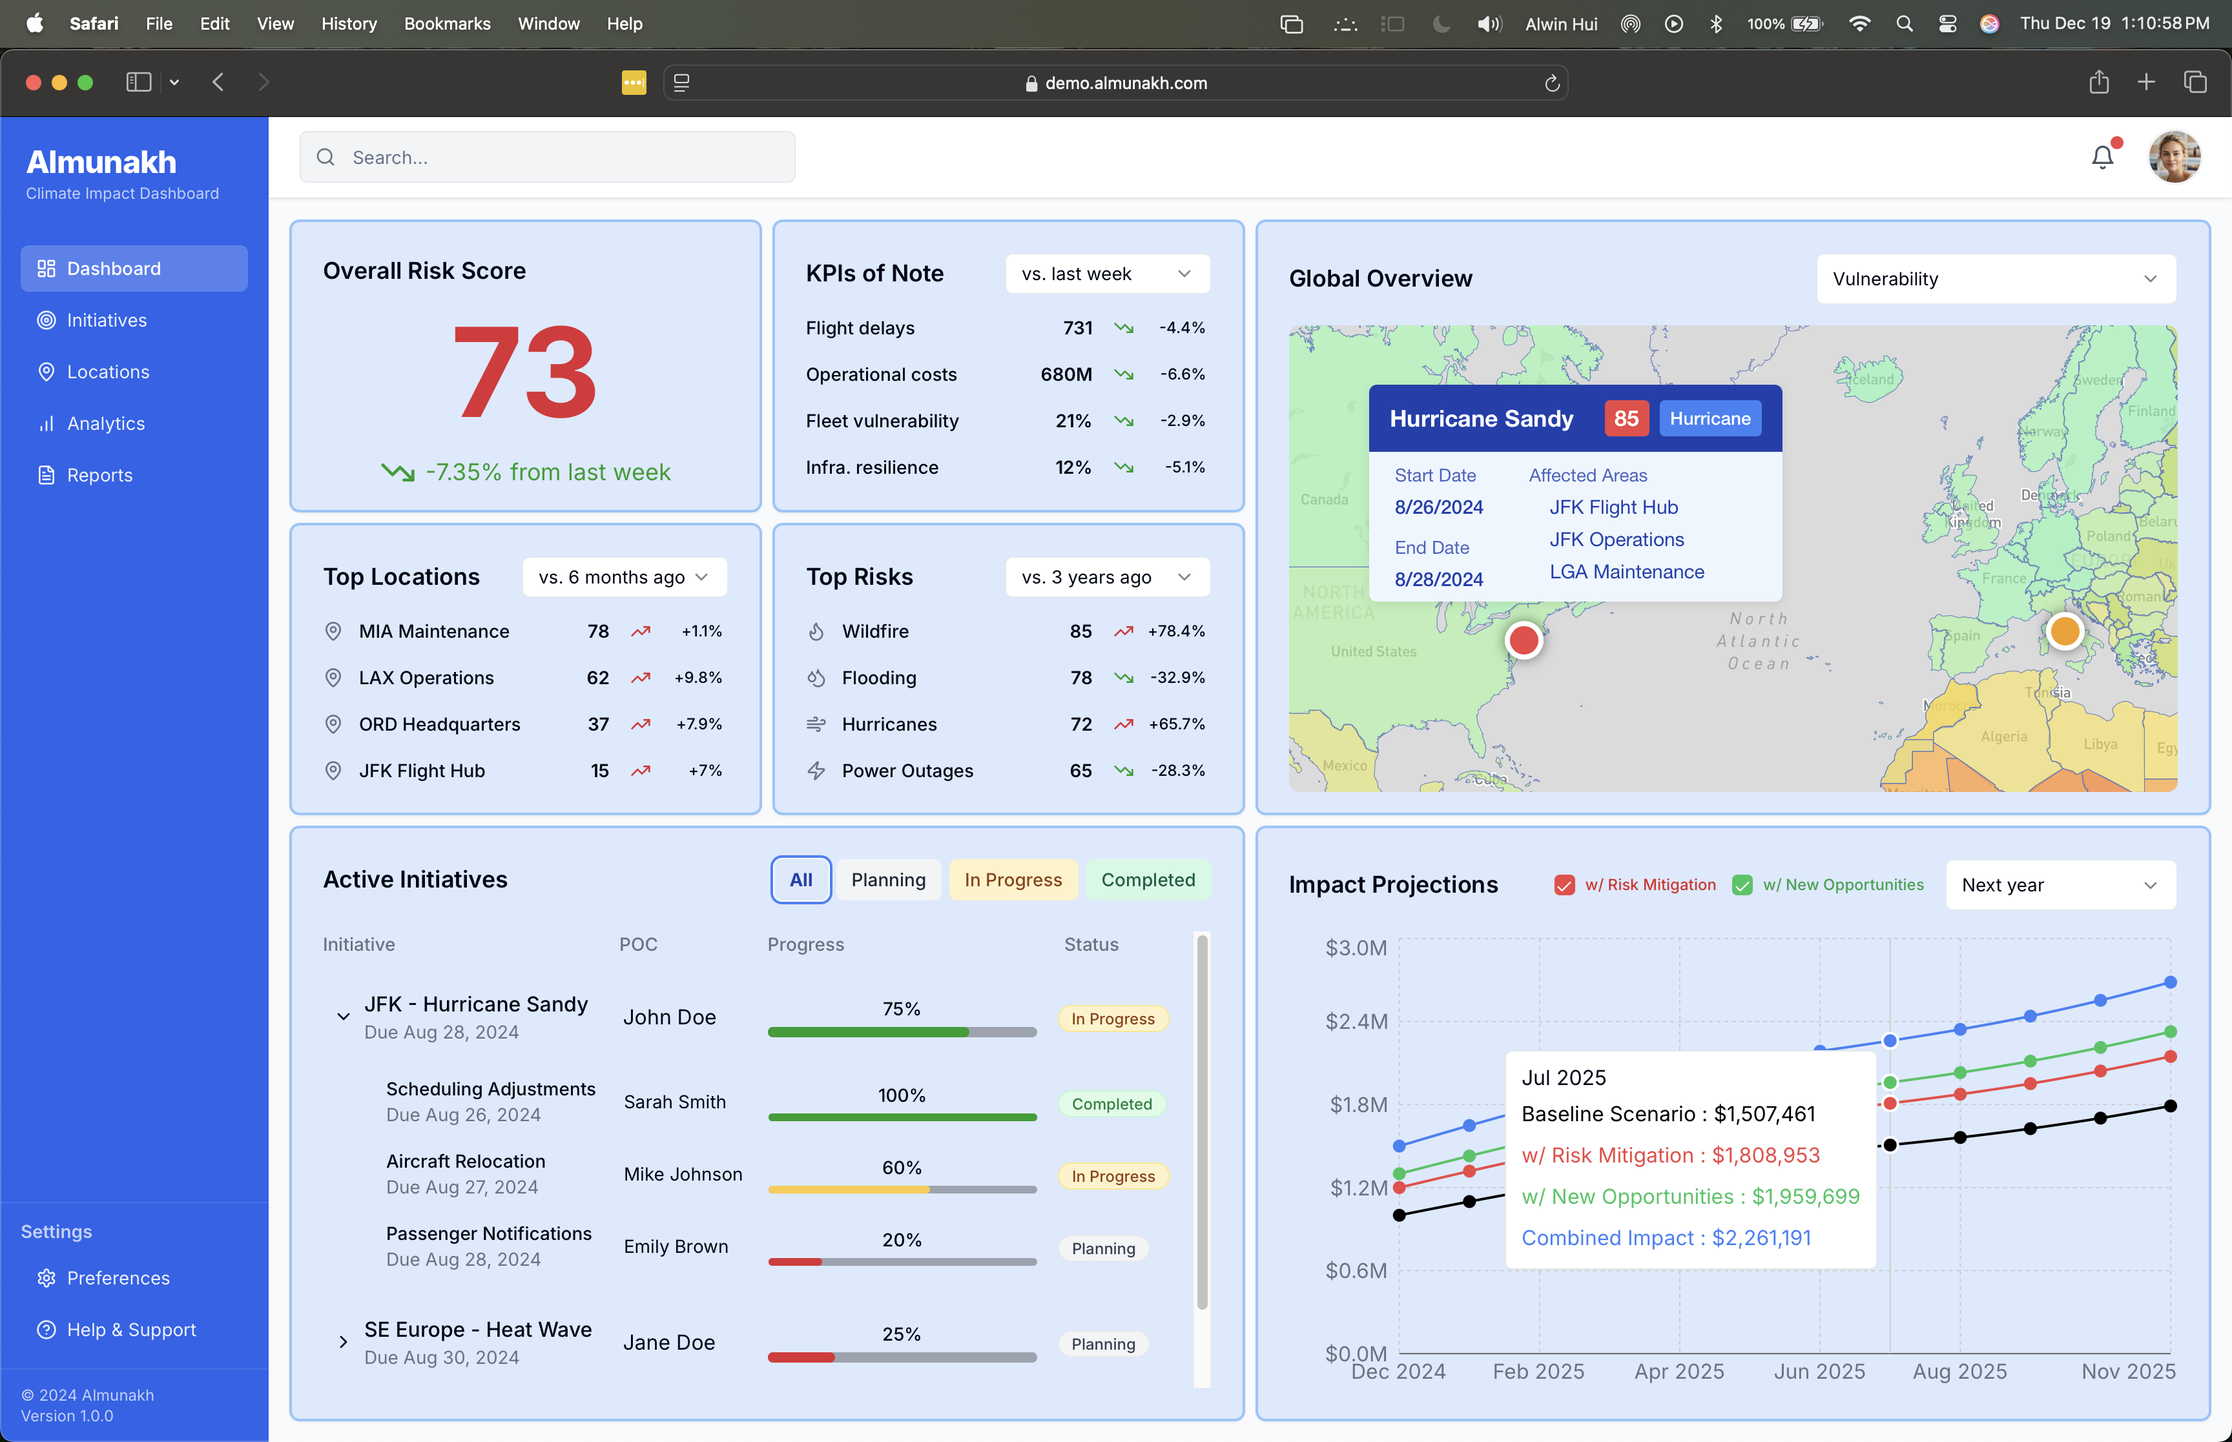
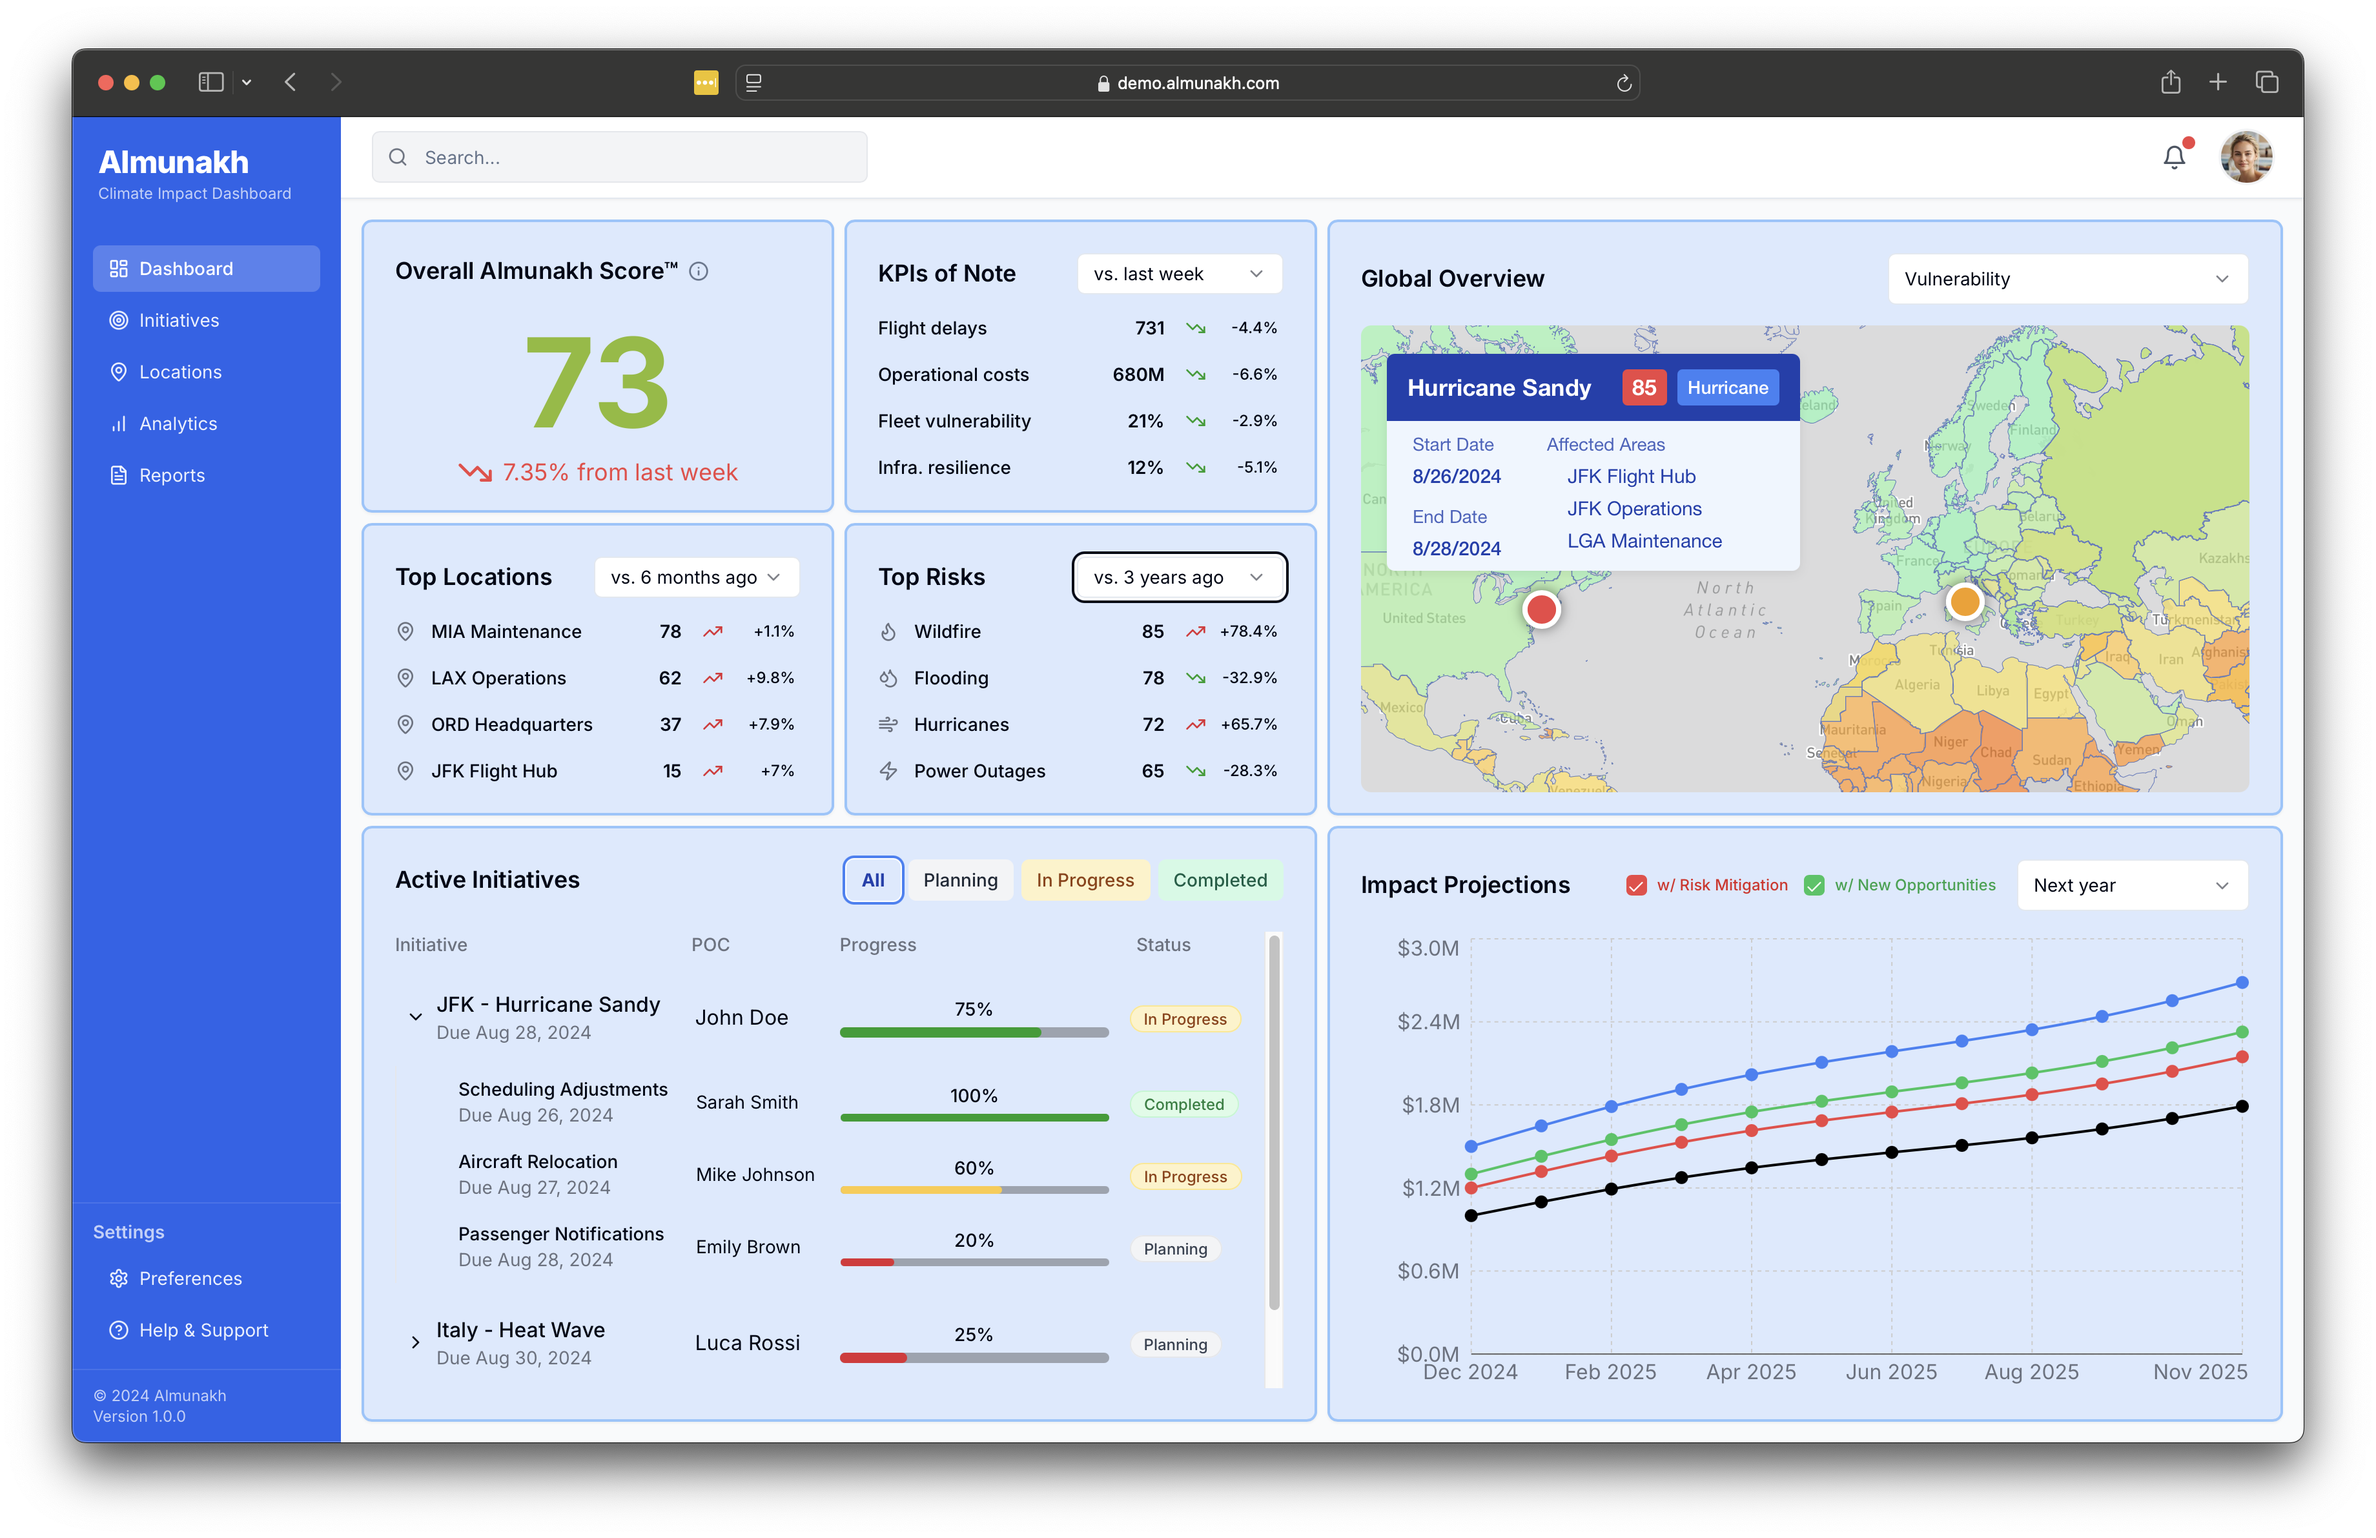
changed globe view to three.js instead of mapbox

diff --git a/components/features/GlobalMap.tsx b/components/features/GlobalMap.tsx
@@ -9,52 +9,8 @@ import { MarkerInfoCard } from './map/MarkerInfoCard';
 import { Card } from '@/components/ui/card';
 import { CardHeader } from '@/components/features/shared/CardHeader';
 import { cn } from '@/lib/utils';
-import type { MapMarker, CountryData, WorldRiskData } from '@/lib/types/dashboard';
+import type { MapMarker } from '@/lib/types/dashboard';
 import { mapMarkers } from '@/lib/data/dashboard';
-
-// Add mock data with correct types
-const mockCountryRisks: CountryData[] = [
-  {
-    id: 'USA',
-    country: 'United States',
-    scores: {
-      'World Risk Index': 75,
-      'Natural Disasters': 65,
-      'Infrastructure': 85
-    },
-    year: 2024
-  },
-  {
-    id: 'GBR',
-    country: 'United Kingdom',
-    scores: {
-      'World Risk Index': 50,
-      'Natural Disasters': 45,
-      'Infrastructure': 70
-    },
-    year: 2024
-  },
-  {
-    id: 'FRA',
-    country: 'France',
-    scores: {
-      'World Risk Index': 30,
-      'Natural Disasters': 35,
-      'Infrastructure': 60
-    },
-    year: 2024
-  }
-];
-
-const mockWorldRiskData: WorldRiskData[] = [
-  {
-    id: 'WRI',
-    name: 'World Risk Index',
-    value: 65,
-    trend: 'up',
-    lastUpdated: '2024-02-24'
-  }
-];
 
 interface GlobalMapProps {
   className?: string;
@@ -112,8 +68,6 @@ export function GlobalMap({ className }: GlobalMapProps) {
               selectedMetric="World Risk Index"
               onMarkerClick={handleMarkerClick}
               onBackgroundClick={handleBackgroundClick}
-              countryRisks={mockCountryRisks}
-              worldRiskData={mockWorldRiskData}
             />
             
             <CameraControls />
